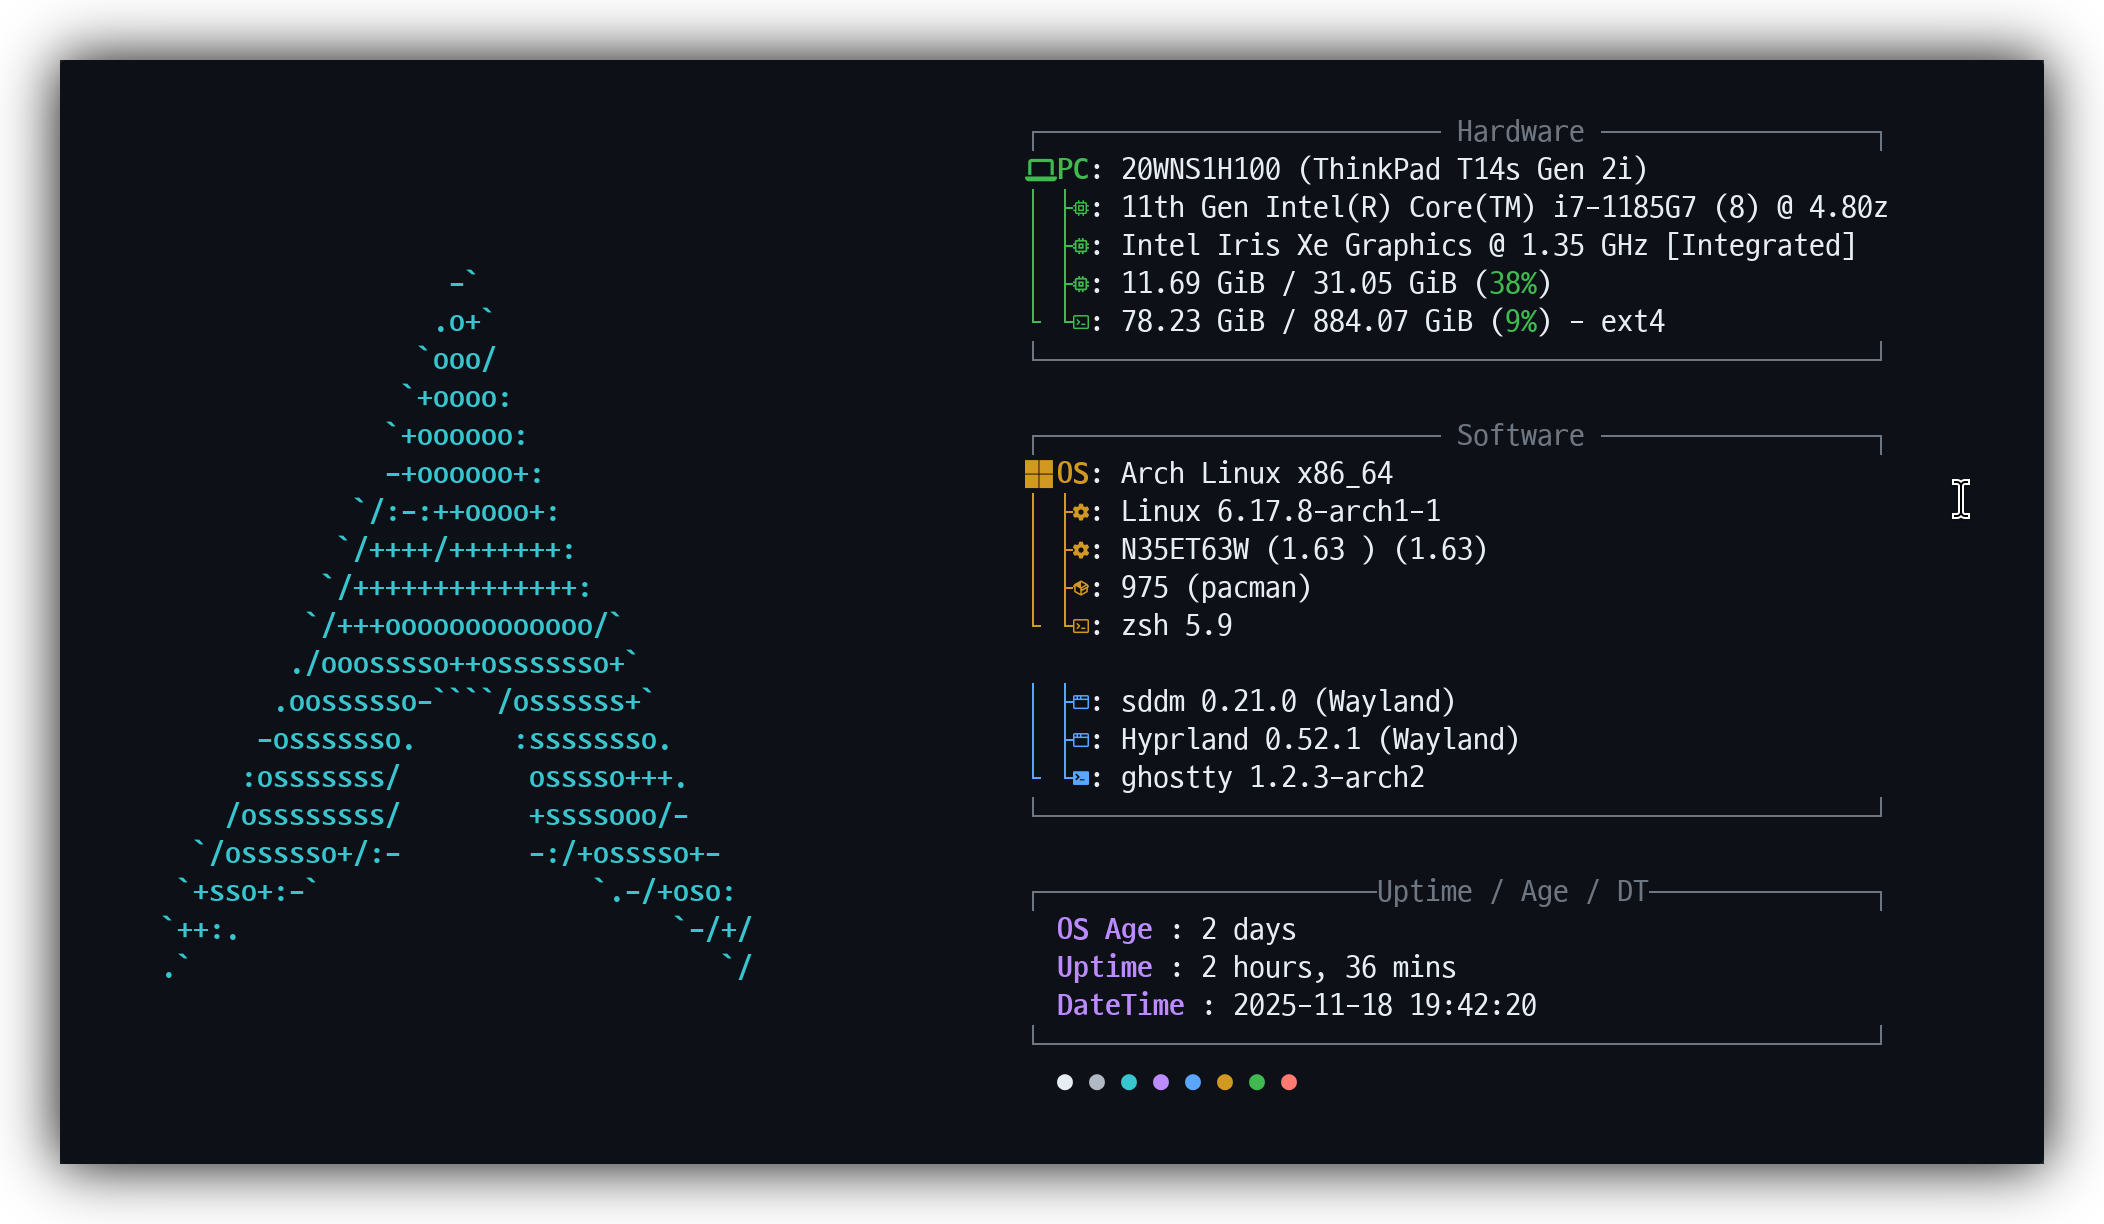
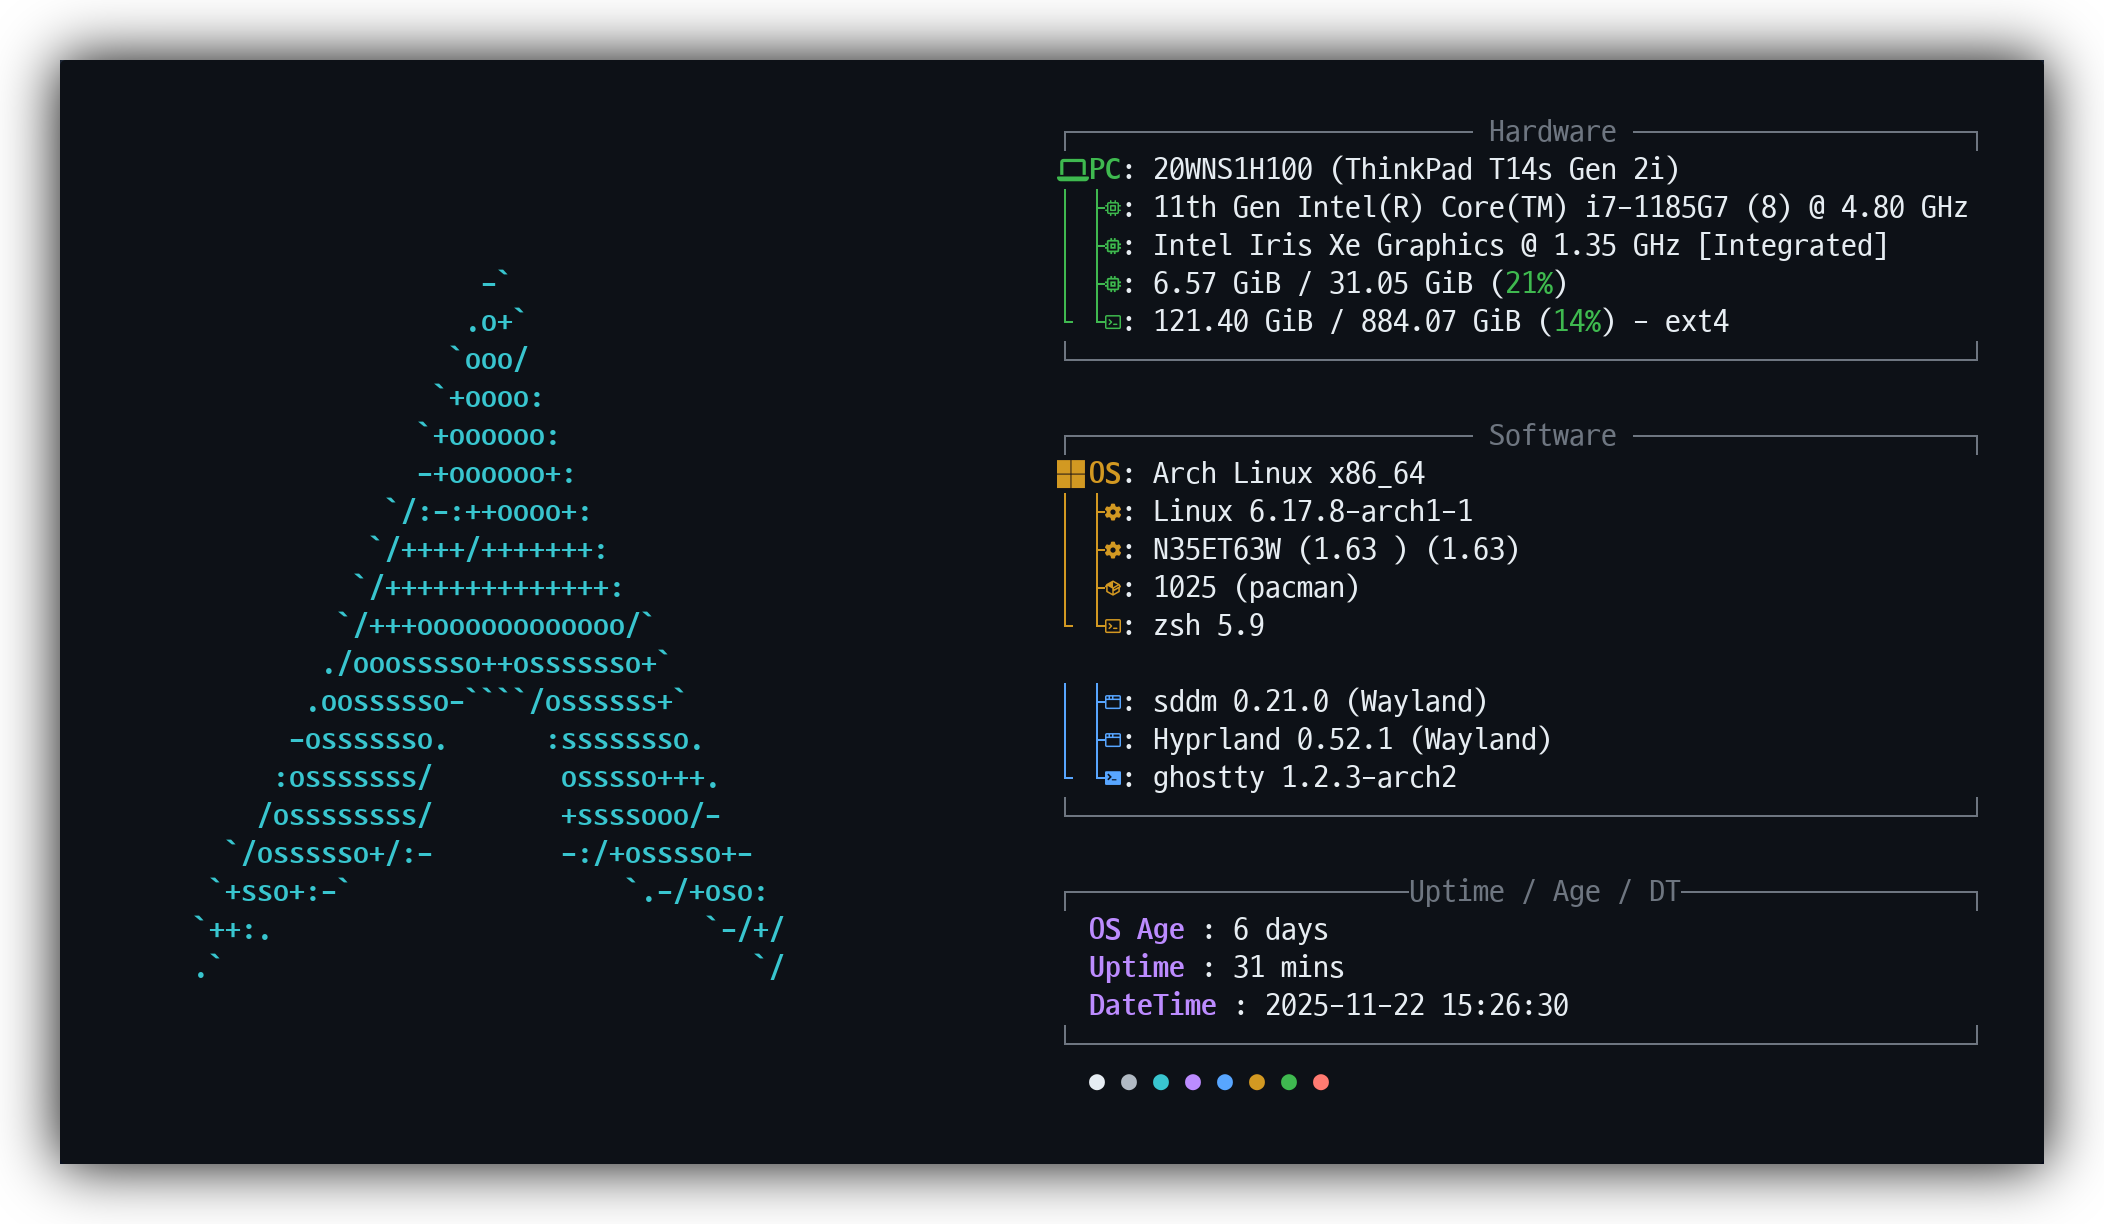
feat(): Remove hyprshot to use grimblast

diff --git a/README.md b/README.md
@@ -12,5 +12,6 @@ sudo pacman -S hyprland hypridle hyprlock hyprpaper nwg-displays nwg-look \
 		libreoffice-still ttf-nanum wine wine-gecko wine-mono winetricks fprintd \
 		intel-media-driver intel-ucode mesa lib32-mesa vulkan-intel \
 		lib32-vulkan-intel brightnessctl playerctl gnome-system-monitor gnome-clock \
-        fcitx5 fcitx5-hangul fcitx5-configtool keyd
+        fcitx5 fcitx5-hangul fcitx5-configtool keyd jq grim slurp wl-clipboard hyprpicker
 ```
+
